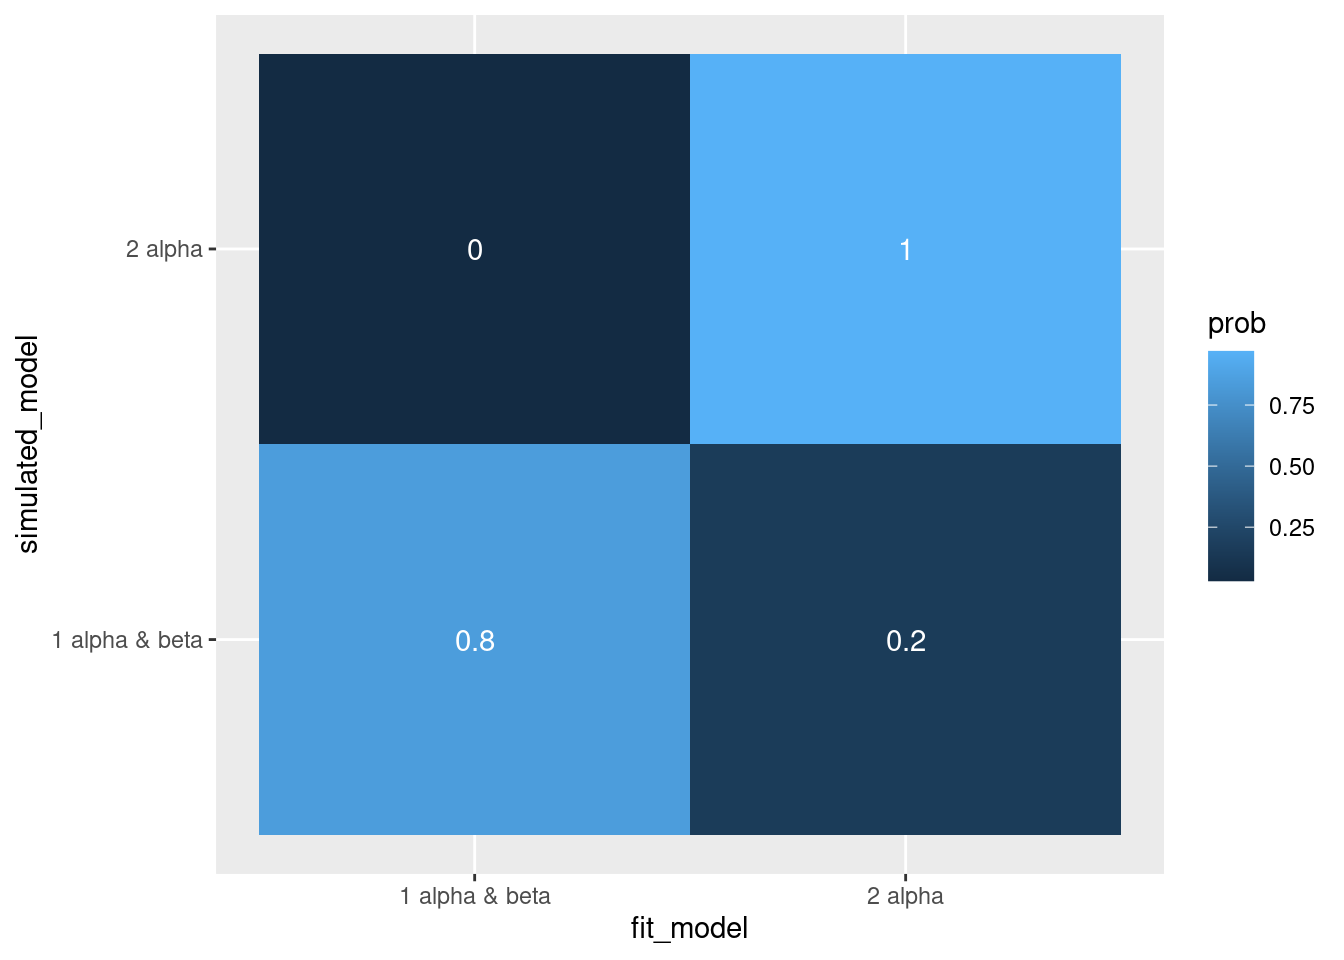
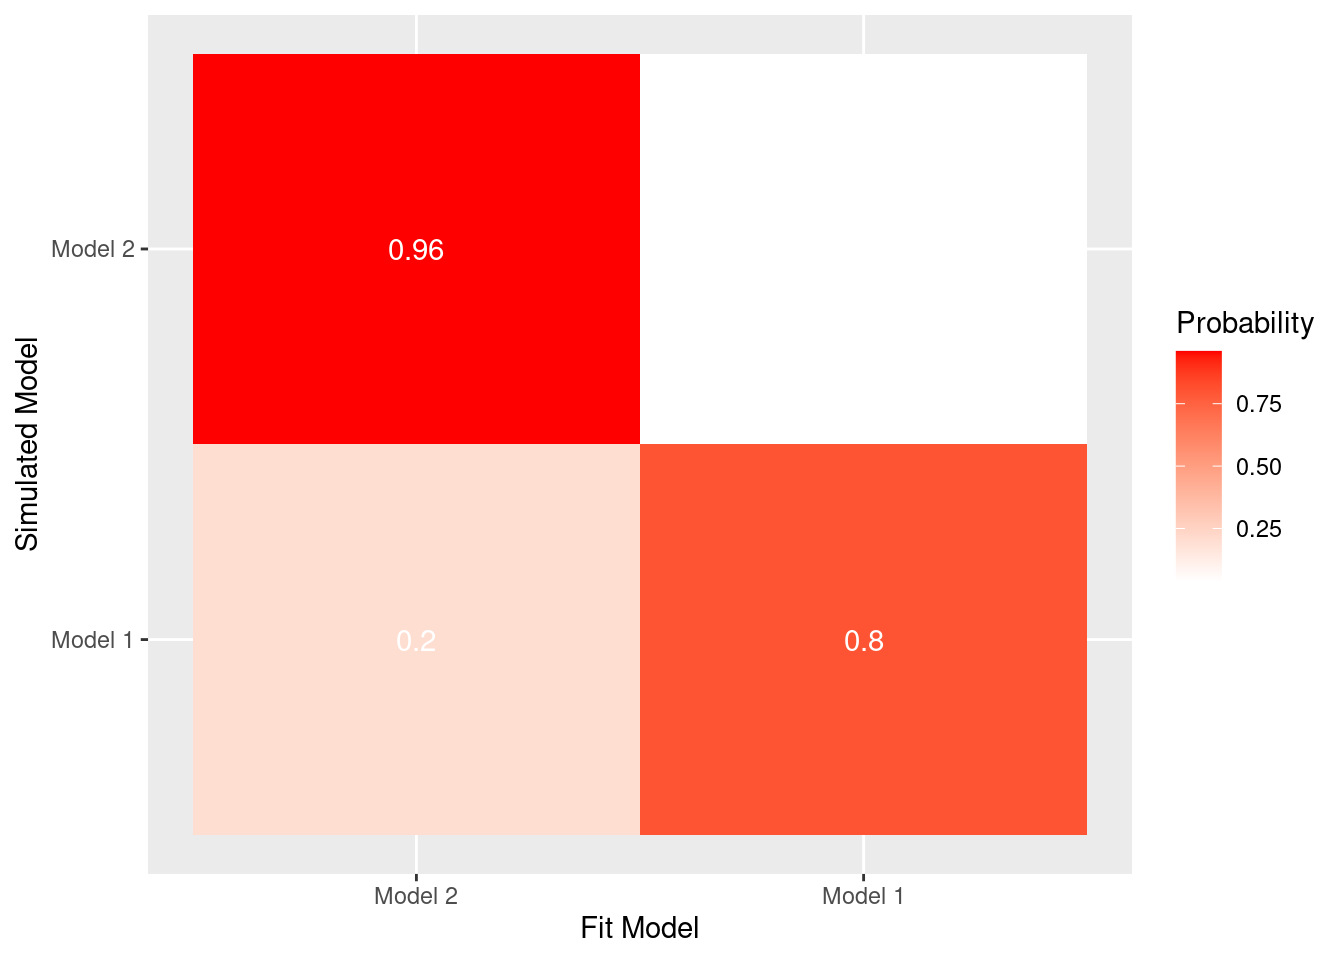
update

diff --git a/docs/how-to-cognitive-modeling-rl3.html b/docs/how-to-cognitive-modeling-rl3.html
@@ -710,19 +710,20 @@ paste(&quot;無情報事前分布のWBICは&quot;,WBIC_non)</code></pre>
 <pre><code>## [1] &quot;有情報事前分布のWBICは 6.43904859965286&quot;</code></pre>
 </div>
 </div>
-<div id="モデルリカバリー" class="section level2">
-<h2>モデルリカバリー</h2>
-<p>これまでパラメータリカバリーをパラメータ推定のチェックで使ってきた。しかし，実際は複数の生成モデルが用いられることがある。パラメータ推定後の相対モデル比較において，データ生成過程で用いられた生成モデルがちゃんと選ばれるか確認するモデルリカバリーという考えもある。例えば，特定の生成モデルAから生成されたシミュレーションデータに対して，複数の生成モデルA ,B,Cを用いてパラメータ推定をした場合に，モデル比較においてBやCよりもAが選ばれる必要がある。モデルリカバリーは，全ての生成モデルから異なる値のパラメータを用いてシミュレーションデータを生成し，それらに対して，全ての生成モデルを用いてパラメータ推定を行うことを全ての組み合わせで行う。モデルリカバリーによって，検討しているモデルが研究目的から妥当か，追加すべきモデルはないか，パラメータ推定で識別不可能なモデルはないかを検討することができる。</p>
+<div id="モデルリカバリーmodel-recovery" class="section level2">
+<h2>モデルリカバリー（Model Recovery）</h2>
+<p>これまでパラメータリカバリーをパラメータ推定のチェックに用いてきました。特定のモデルのパラメータ推定の精度を調べる上では，パラメータリカバリーが使えます。ただし，そもそもデータ生成に用いたれたモデルがモデル選択でちゃんと選ばれるのかについては，検討ができていません。生成モデルはあくまで研究者が仮定したものであって，複数の生成モデルが存在すると考えられるので，データからちゃんとモデルが選択できることが重要です。</p>
+<p>パラメータ推定後の相対モデル比較において，データ生成過程で用いられた生成モデルがちゃんと選ばれるか確認するモデルリカバリーという考えがあります。例えば，特定の生成モデルAから生成されたシミュレーションデータに対して，複数の生成モデルA ,B,Cを用いてパラメータ推定してモデル比較した場合，BやCよりもAが選ばれる必要があります。これを検討するのがモデルリカバリーです。モデルリカバリーでは，全ての生成モデルから異なる値のパラメータを用いてシミュレーションデータを生成し，それらに対して，全ての生成モデルを用いてパラメータ推定を行うことを全ての組み合わせで行います。モデルリカバリーによって，検討しているモデルが研究目的から妥当か，追加すべきモデルはないか，パラメータ推定で識別不可能なモデルはないかを検討することができます。</p>
 <div id="モデルリカバリーで用いるモデル" class="section level3">
 <h3>モデルリカバリーで用いるモデル</h3>
-<p>今回は２つの生成モデルを考える。</p>
+<p>あまり複雑にしないために，これまで用いてきたモデルとそのモデルを一部改変したモデルを考えます。</p>
 <ul>
-<li>上記で検討した事前分布をおいた強化学習モデル</li>
-<li>上記からβを除外した強化学習モデル（β=1に仮定したモデルともいえる）</li>
+<li>上記で検討した事前分布をおいた強化学習モデル（Model 1）</li>
+<li>上記からβを除外した強化学習モデル（Model 2, β=1に仮定したモデルともいえます）</li>
 </ul>
 <div id="αとβを仮定したモデルから生成されたデータのモデルリカバリー" class="section level4">
 <h4>αとβを仮定したモデルから生成されたデータのモデルリカバリー</h4>
-<p>まずは，これまでと同様なαもβも存在する強化学習モデルでデータを生成します。それに対して，それと一致したモデル（上記のq_learning_prior_WBIC.stan）と一致しないモデル（以下のq_learning_prior_non_beta_WBIC.stan）を使って推定することで，モデルリカバリーをしてみます。</p>
+<p>まずは，これまでと同様なαもβも存在する強化学習モデル(Model 1)でデータを生成します。それに対して，それと一致したモデル（Model 1, 上記のq_learning_prior_WBIC.stan）と一致しないモデル（Model 2, 以下のq_learning_prior_non_beta_WBIC.stan）を使って推定することで，モデルリカバリーをします。</p>
 <p>q_learning_prior_non_beta_WBIC.stanは，以下のようなコードになります。簡単にいうと，q_learning_weak_info_single_WBIC.stanからbetaを抜いただけです。</p>
 <pre><code>data {
   int&lt;lower=1&gt; trial;
@@ -738,10 +739,8 @@ model {
   matrix[trial,2] Q;
   Q[1, 1] = 0;
   Q[1, 2] = 0;
-  
-  //学習率の事前分布にベータ分布，逆温度の事前分布にガンマ分布
+  //学習率の事前分布にベータ分布
   alpha ~ beta(2, 2);
-  
   for ( t in 1:trial) {
     // 対数尤度を足す
     target += (1/log(trial))*log(exp(Q[t,choice[t]])/(exp(Q[t,choice[t]])+exp(Q[t,3-choice[t]])));
@@ -774,39 +773,26 @@ generated quantities {
 }</code></pre>
 <p>まずは，q_learning_prior_non_beta_WBIC.stanをコンパイルします。</p>
 <pre><code>q_learning_prior_non_beta_WBIC &lt;- cmdstan_model(&#39;rl/q_learning_prior_non_beta_WBIC.stan&#39;)</code></pre>
-<p>さて，以下のコードを走らせて，αとβを仮定したモデルで生成されたデータをαとβを仮定するモデルとαだけを仮定するモデルでフィッティングした時に，モデルが選択される確率を計算します。</p>
-<p>hist(rbeta(1000, 2, 2)) hist(rgamma(1000, 2, 0.5))</p>
+<p>さて，以下のコードを走らせて，αとβを仮定したモデル(Model 1)で生成されたデータをαとβを仮定するモデル(Model 1)とαだけを仮定するモデル(Model 2)でフィッティングした時に，モデルが選択される確率を計算します。</p>
 </div>
 <div id="αのみを仮定したモデルから生成されたデータのモデルリカバリー" class="section level4">
 <h4>αのみを仮定したモデルから生成されたデータのモデルリカバリー</h4>
-<p>次は，αのみを仮定したモデル（βは仮定しない，つまり，βを１に固定するモデル）で生成されたデータをαとβを仮定するモデルとαだけを仮定するモデルでフィッティングした時に，モデルが選択される確率を計算します。</p>
-<p>整理すると以下のようになります。</p>
-<pre class="r"><code>simulated_model &lt;- c(&quot;1 alpha &amp; beta&quot;,&quot;1 alpha &amp; beta&quot;,&quot;2 alpha&quot;,&quot;2 alpha&quot;)
-fit_model &lt;- c(&quot;1 alpha &amp; beta&quot;,&quot;2 alpha&quot;,&quot;1 alpha &amp; beta&quot;,&quot;2 alpha&quot;)
-prob &lt;- c(fit_both_sim_both, fit_alpha_sim_both, fit_both_sim_alpha, fit_alpha_sim_alpha)
+<p>次は，αのみを仮定したモデル（Model 2, βは仮定しない，つまり，βを１に固定するモデル）で生成されたデータをαとβを仮定するモデル(Model 1)とαだけを仮定するモデル(Model 2)でフィッティングした時に，モデルが選択される確率を計算します。</p>
+<p>ヒートマップ形式で図示します。alphaだけのモデル(Model 2)で生成したデータのパタメータ推定において，高い確率でalphaだけのモデル(Model 2)が選択されています。一方，alphaとbetaの両方があるモデル(Model 1)で生成したデータのパラメータ推定においては，alphaとbetaの両方があるモデル(Model 1)の方が選択される確率は高いもののalphaだけのモデル(Model 2)が選択されることがあります。偶然，設定したパラメータがβが１付近になってモデル識別が難しくなるケースがあったり，alphaとbetaの両方があるモデル(Model 1)の方が推定するパラメータが多いというのもあるかもしれません。こんな感じでモデルリカバリーの検討を行います。</p>
+<pre class="r"><code>simulated_model &lt;- factor(c(&quot;Model 1&quot;,&quot;Model 1&quot;,&quot;Model 2&quot;,&quot;Model 2&quot;), levels = c(&quot;Model 1&quot;,&quot;Model 2&quot;))
+fit_model &lt;- factor(c(&quot;Model 1&quot;,&quot;Model 2&quot;,&quot;Model 1&quot;,&quot;Model 2&quot;), levels = c(&quot;Model 2&quot;,&quot;Model 1&quot;))
+Probability &lt;- c(fit_model1_sim_model1, fit_model2_sim_model1, fit_model1_sim_model2, fit_model2_sim_model2)
+model_recovery &lt;- tibble(simulated_model, fit_model, Probability)
 
-model_recovery &lt;- tibble(simulated_model, fit_model, prob)
-
-ggplot(model_recovery, aes(x = fit_model, y = simulated_model, fill = prob)) +
+ggplot(model_recovery, aes(x = fit_model, y = simulated_model, fill = Probability)) +
   geom_tile() +
-  geom_text(aes(label = round(prob, digits = 1)), color = &quot;white&quot;)</code></pre>
+  scale_fill_gradient(low = &quot;white&quot;, high = &quot;red&quot;) +
+  geom_text(aes(label = round(Probability, digits = 2)), color = &quot;white&quot;)　+
+  xlab(&quot;Fit Model&quot;) +
+  ylab(&quot;Simulated Model&quot;)</code></pre>
 <p><img src="how-to-cognitive-modeling-rl3_files/figure-html/unnamed-chunk-9-1.png" width="672" /></p>
 </div>
 </div>
-</div>
-<div id="階層ベイズ" class="section level2">
-<h2>階層ベイズ</h2>
-<ul>
-<li><p>これまで１名のデータをごとに推定をしてきたが，多くの心理学研究では，複数の参加者が研究に参加している。</p></li>
-<li><p>個人ごとに推定する方法でも個人差は検討できるが，試行数が少ないとと推定は不安定になる。また，参加者間変動も考慮していない。</p></li>
-<li><p>集団における各参加者のパラメタのばらつきもモデルに組み込んでベイズ推定する階層ベイズを用いると，個人差も検討することができ,推定も安定する。階層ベイズでは,個々の参加者から推定されるパラメタの分布も考慮できるので,個人のパラメタとグループのパラメタの傾向を同時制約的に推定できる。個人差も検討できるし、推定するパラメタも安定する。試行数を増やしにくい臨床研究で使いやすい！</p></li>
-</ul>
-<p>上記の２つのモデルで作成して，比較してみる。</p>
-<p>Schaaf, J. V., Jepma, M., Visser, I., &amp; Huizenga, H. M. (2019). A hierarchical Bayesian approach to assess learning and guessing strategies in reinforcement learning. Journal of Mathematical Psychology, 93, 102276.</p>
-<p>Steingroever, H., Wetzels, R., &amp; Wagenmakers, E.-J. (2014). Absolute performance of reinforcement-learning models for the Iowa Gambling Task. Decision (Washington, D.C.), 1(3), 161–183.</p>
-<ul>
-<li>階層ベイズモデルやモデル選択に関しては，「StanとRでベイズ統計モデリング」(松浦健太郎, 2016, 共立出版)，「行動データの計算論モデリング」（片平健太郎，2018，オーム社），「社会科学のためのベイズ統計モデリング」（浜田宏ら，2019，朝倉書店）などが詳しい。</li>
-</ul>
 </div>
 <div id="f-モデルシミュレーションと選択的影響テスト" class="section level2">
 <h2>F モデル・シミュレーションと選択的影響テスト</h2>
@@ -820,9 +806,6 @@ ggplot(model_recovery, aes(x = fit_model, y = simulated_model, fill = prob)) +
 <li>Heathcote, A., Brown, S. D., &amp; Wagenmakers, E.-J. (2015). An Introduction to Good Practices in Cognitive Modeling. In B. U. Forstmann &amp; E.-J. Wagenmakers (Eds.), An Introduction to Model-Based Cognitive Neuroscience (pp. 25–48). Springer New York.</li>
 <li>Palminteri, S., Wyart, V., &amp; Koechlin, E. (2017). The Importance of Falsification in Computational Cognitive Modeling. Trends in Cognitive Sciences, 21(6), 425–433.</li>
 <li>Voss, A., Rothermund, K., &amp; Voss, J. (2004). Interpreting the parameters of the diffusion model: an empirical validation. Memory &amp; Cognition, 32(7), 1206–1220.</li>
-<li>松浦健太郎(2016).StanとRでベイズ統計モデリング 共立出版</li>
-<li>片平健太郎(2018). 行動データの計算論モデリング オーム社</li>
-<li>浜田宏ら(2019). 社会科学のためのベイズ統計モデリング 朝倉書店</li>
 </ul>
 </div>
 

diff --git a/docs/index.html b/docs/index.html
@@ -13,12 +13,22 @@
 
 <title>Computational Clinical Psychology Lab</title>
 
+<script src="site_libs/header-attrs-2.7/header-attrs.js"></script>
 <script src="site_libs/jquery-1.11.3/jquery.min.js"></script>
 <meta name="viewport" content="width=device-width, initial-scale=1" />
 <link href="site_libs/bootstrap-3.3.5/css/cosmo.min.css" rel="stylesheet" />
 <script src="site_libs/bootstrap-3.3.5/js/bootstrap.min.js"></script>
 <script src="site_libs/bootstrap-3.3.5/shim/html5shiv.min.js"></script>
 <script src="site_libs/bootstrap-3.3.5/shim/respond.min.js"></script>
+<style>h1 {font-size: 34px;}
+       h1.title {font-size: 38px;}
+       h2 {font-size: 30px;}
+       h3 {font-size: 24px;}
+       h4 {font-size: 18px;}
+       h5 {font-size: 16px;}
+       h6 {font-size: 12px;}
+       code {color: inherit; background-color: rgba(0, 0, 0, 0.04);}
+       pre:not([class]) { background-color: white }</style>
 <script src="site_libs/jqueryui-1.11.4/jquery-ui.min.js"></script>
 <link href="site_libs/tocify-1.9.1/jquery.tocify.css" rel="stylesheet" />
 <script src="site_libs/tocify-1.9.1/jquery.tocify.js"></script>
@@ -27,6 +37,7 @@
 <script src="site_libs/highlightjs-9.12.0/highlight.js"></script>
 <link rel="apple-touch-icon" type="image/png" href="apple-touch-icon-180x180.png">
 <link rel="icon" type="image/png" href="icon-192x192.png">
+
 
 <style type="text/css">
   code{white-space: pre-wrap;}
@@ -38,11 +49,6 @@
     </style>
 
 <style type="text/css">code{white-space: pre;}</style>
-<style type="text/css">
-  pre:not([class]) {
-    background-color: white;
-  }
-</style>
 <script type="text/javascript">
 if (window.hljs) {
   hljs.configure({languages: []});
@@ -55,32 +61,6 @@ if (window.hljs) {
 
 
 
-<style type="text/css">
-h1 {
-  font-size: 34px;
-}
-h1.title {
-  font-size: 38px;
-}
-h2 {
-  font-size: 30px;
-}
-h3 {
-  font-size: 24px;
-}
-h4 {
-  font-size: 18px;
-}
-h5 {
-  font-size: 16px;
-}
-h6 {
-  font-size: 12px;
-}
-.table th:not([align]) {
-  text-align: left;
-}
-</style>
 
 
 <link rel="stylesheet" href="site_style.css" type="text/css" />
@@ -92,10 +72,6 @@ h6 {
   max-width: 940px;
   margin-left: auto;
   margin-right: auto;
-}
-code {
-  color: inherit;
-  background-color: rgba(0, 0, 0, 0.04);
 }
 img {
   max-width:100%;
@@ -112,40 +88,13 @@ button.code-folding-btn:focus {
 summary {
   display: list-item;
 }
+pre code {
+  padding: 0;
+}
 </style>
 
 
 <style type="text/css">
-/* padding for bootstrap navbar */
-body {
-  padding-top: 51px;
-  padding-bottom: 40px;
-}
-/* offset scroll position for anchor links (for fixed navbar)  */
-.section h1 {
-  padding-top: 56px;
-  margin-top: -56px;
-}
-.section h2 {
-  padding-top: 56px;
-  margin-top: -56px;
-}
-.section h3 {
-  padding-top: 56px;
-  margin-top: -56px;
-}
-.section h4 {
-  padding-top: 56px;
-  margin-top: -56px;
-}
-.section h5 {
-  padding-top: 56px;
-  margin-top: -56px;
-}
-.section h6 {
-  padding-top: 56px;
-  margin-top: -56px;
-}
 .dropdown-submenu {
   position: relative;
 }
@@ -173,7 +122,7 @@ body {
   margin-right: -10px;
 }
 .dropdown-submenu:hover>a:after {
-  border-left-color: #ffffff;
+  border-left-color: #adb5bd;
 }
 .dropdown-submenu.pull-left {
   float: none;
@@ -185,7 +134,7 @@ body {
 }
 </style>
 
-<script>
+<script type="text/javascript">
 // manage active state of menu based on current page
 $(document).ready(function () {
   // active menu anchor
@@ -196,10 +145,23 @@ $(document).ready(function () {
   var menuAnchor = $('a[href="' + href + '"]');
 
   // mark it active
-  menuAnchor.parent().addClass('active');
+  menuAnchor.tab('show');
 
   // if it's got a parent navbar menu mark it active as well
   menuAnchor.closest('li.dropdown').addClass('active');
+
+  // Navbar adjustments
+  var navHeight = $(".navbar").first().height() + 15;
+  var style = document.createElement('style');
+  var pt = "padding-top: " + navHeight + "px; ";
+  var mt = "margin-top: -" + navHeight + "px; ";
+  var css = "";
+  // offset scroll position for anchor links (for fixed navbar)
+  for (var i = 1; i <= 6; i++) {
+    css += ".section h" + i + "{ " + pt + mt + "}\n";
+  }
+  style.innerHTML = "body {" + pt + "padding-bottom: 40px; }\n" + css;
+  document.head.appendChild(style);
 });
 </script>
 
@@ -211,7 +173,6 @@ $(document).ready(function () {
   max-height: 500px;
   min-height: 44px;
   overflow-y: auto;
-  background: white;
   border: 1px solid #ddd;
   border-radius: 4px;
 }
@@ -337,13 +298,13 @@ div.tocify {
 
 
 <!-- setup 3col/9col grid for toc_float and main content  -->
-<div class="row-fluid">
-<div class="col-xs-12 col-sm-4 col-md-3">
+<div class="row">
+<div class="col-sm-12 col-md-4 col-lg-3">
 <div id="TOC" class="tocify">
 </div>
 </div>
 
-<div class="toc-content col-xs-12 col-sm-8 col-md-9">
+<div class="toc-content col-sm-12 col-md-8 col-lg-9">
 
 
 
@@ -416,7 +377,7 @@ div.tocify {
   </div><!--/.container -->
 </div><!--/.navbar -->
 
-<div class="fluid-row" id="header">
+<div id="header">
 
 
 
@@ -483,7 +444,7 @@ $(document).ready(function () {
 
 $(document).ready(function () {
   $('.tabset-dropdown > .nav-tabs > li').click(function () {
-    $(this).parent().toggleClass('nav-tabs-open')
+    $(this).parent().toggleClass('nav-tabs-open');
   });
 });
 </script>
